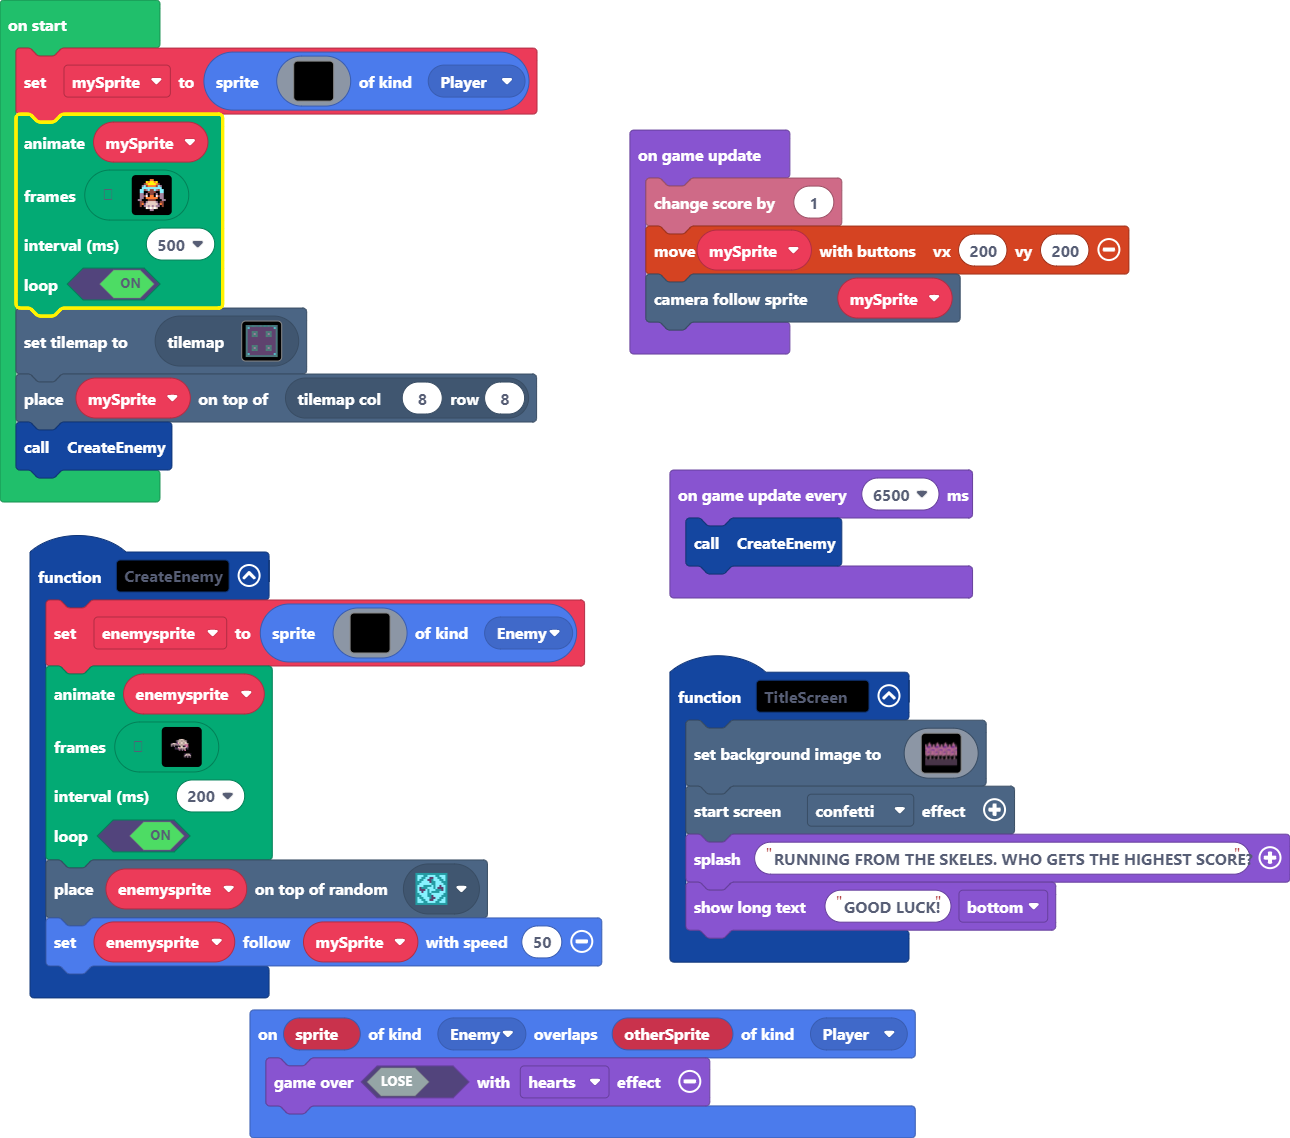
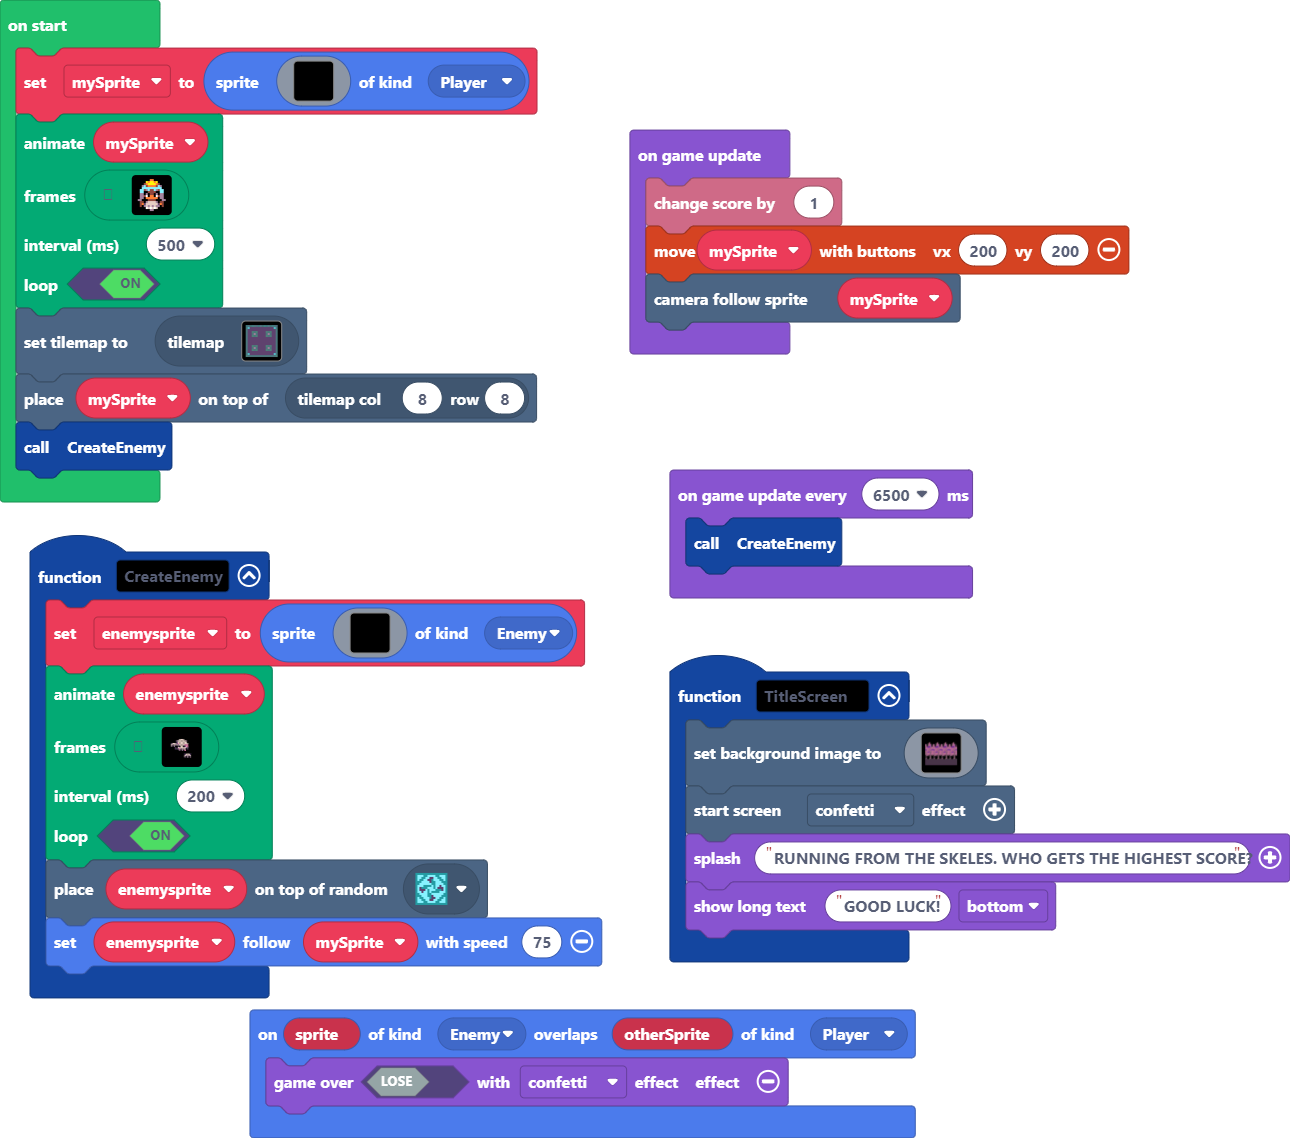
Update pxt.json, main.blocks, main.ts

diff --git a/main.ts b/main.ts
@@ -126,7 +126,7 @@ function TitleScreen () {
     game.showLongText("GOOD LUCK!", DialogLayout.Bottom)
 }
 sprites.onOverlap(SpriteKind.Enemy, SpriteKind.Player, function (sprite, otherSprite) {
-    game.over(false, effects.hearts)
+    game.over(false, effects.confetti)
 })
 function CreateEnemy () {
     enemysprite = sprites.create(img`
@@ -154,7 +154,7 @@ function CreateEnemy () {
     true
     )
     tiles.placeOnRandomTile(enemysprite, sprites.dungeon.collectibleInsignia)
-    enemysprite.follow(mySprite, 50)
+    enemysprite.follow(mySprite, 75)
 }
 let enemysprite: Sprite = null
 let mySprite: Sprite = null
